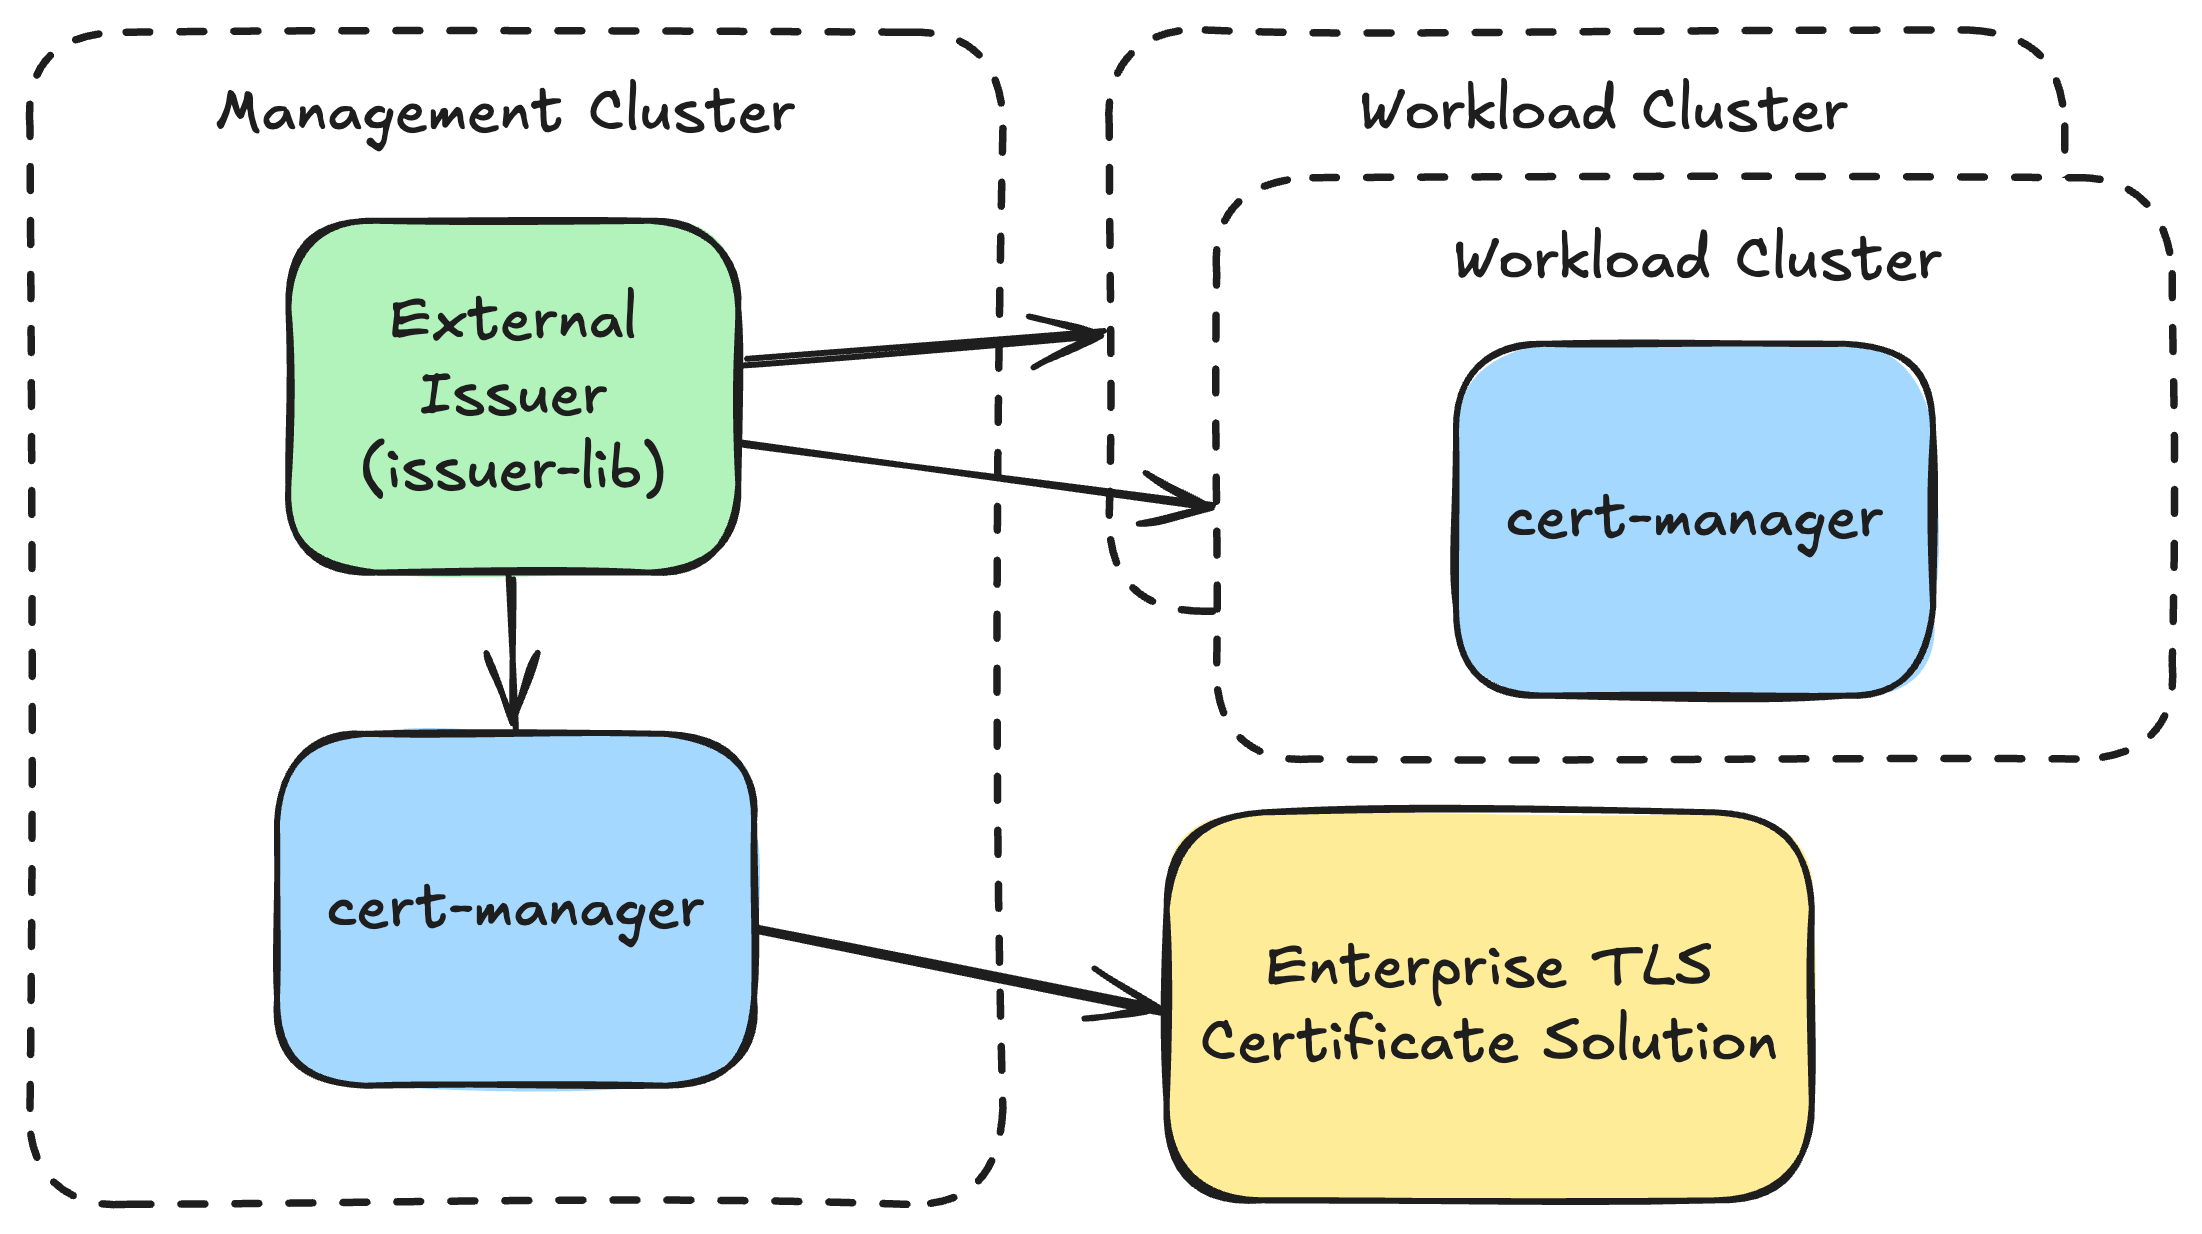
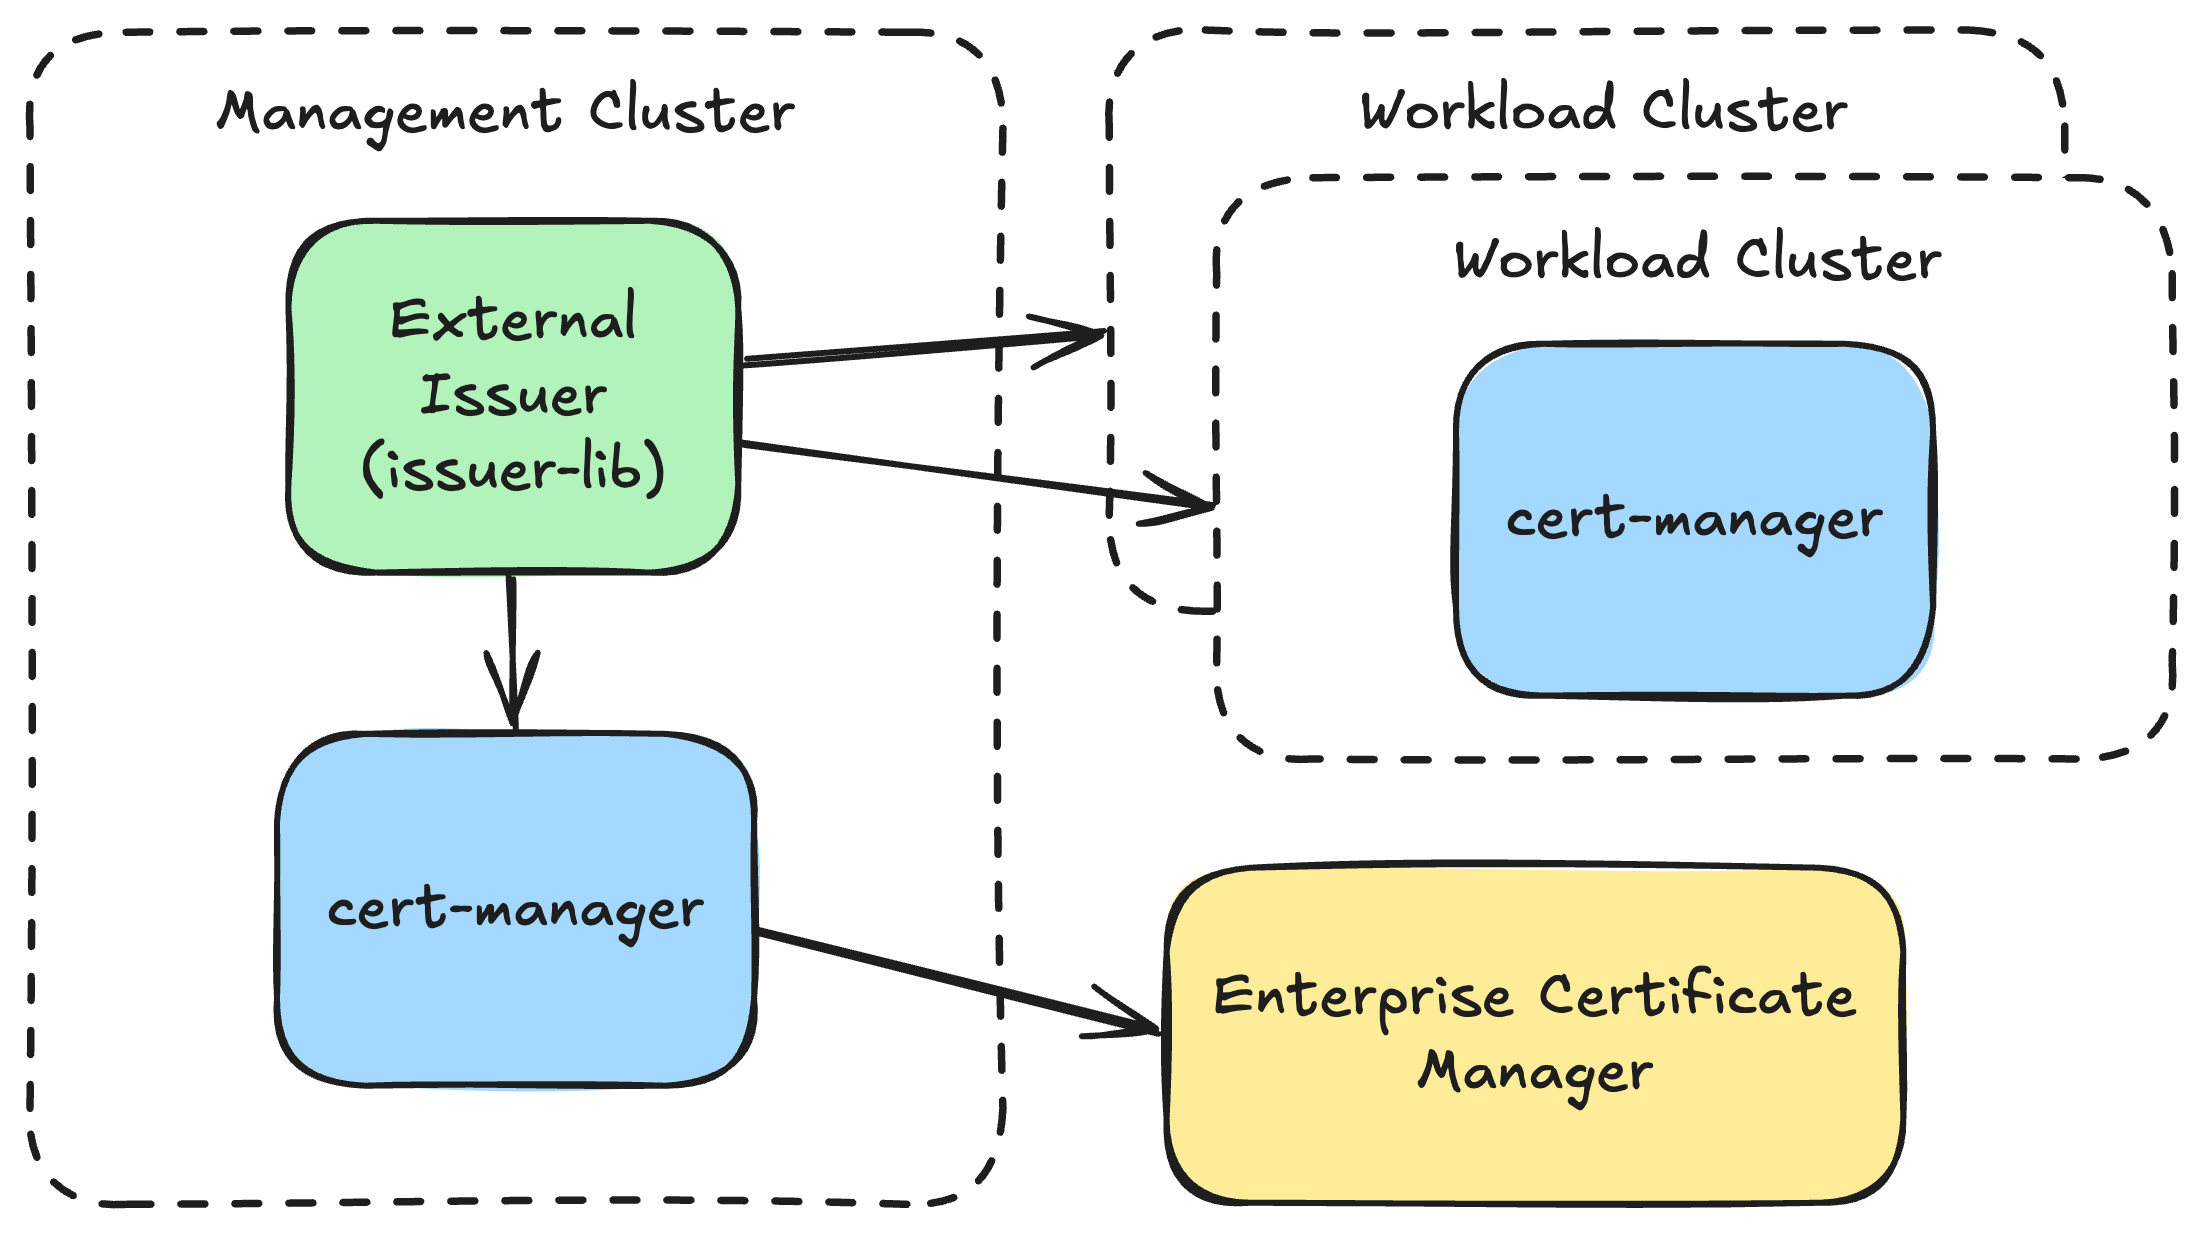
Update diagram

Changed region(s): [[0.3397, 0.6467, 0.8647, 0.9854]]

diff --git a/content/post/extending-cert-manager-with-issuer-lib.md b/content/post/extending-cert-manager-with-issuer-lib.md
@@ -57,10 +57,10 @@ This allows highly privileged credentials to be stored in the management cluster
 them directly to workload clusters. Custom validation can be applied before CertificateRequests are
 created in the management cluster to restrict the scope of each workload cluster.
 
-In the following diagram, the workload clusters cannot authenticate directly to the enterprise TLS
-certificate management solution. Instead, any CertificateRequests created in the workload clusters
-referencing the external issuer will be picked up and signed by the management cluster by creating a
-corresponding CertificateRequest in the management cluster. Note that cert-manager still needs to
-run in the workload clusters to manage the certificate lifecycle:
+In the following diagram, the workload clusters cannot authenticate directly to the enterprise
+certificate manager; instead, any CertificateRequests created in the workload clusters referencing
+the external issuer will be picked up and signed by creating a corresponding CertificateRequest in
+the management cluster. Note that cert-manager still needs to run in the workload clusters to manage
+the certificate lifecycle:
 
 ![issuer-lib](/img/issuer-lib.png)
